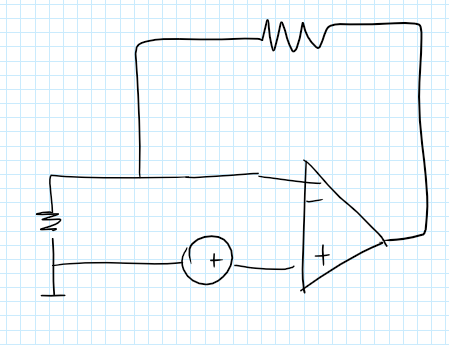
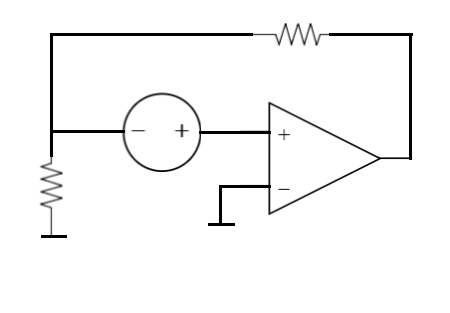
dska

Changed region(s): [[0.0, 0.0, 1.0, 0.9201], [0.0, 0.9489, 1.0, 1.0]]

diff --git a/Ej3/Informe/ej3.tex b/Ej3/Informe/ej3.tex
@@ -3,8 +3,9 @@
 
 \section{Medici\'on corriente de bias y tensi\'on de offset}
 
+\subsection{Importancia de las corrientes de bias y la tensi\'on de offset}
 
-\subsection{Modelo de amplificador operacional con corrientes de bias y tensi\'on de offset}
+
 
 \begin{figure}[htb]	%modelo opamp vio ibias
 	\centering
@@ -16,9 +17,6 @@
 
 
 
-
-
-\subsection{Importancia de las corrientes de bias y la tensi\'on de offset}
 
 
 Las corrientes de bias($I_B^+$ y $I_B^-$) y la tensi\'on de offset ($V_{IO}$) pueden generar efectos que no concuerdan con el modelo ideal de un amplificador operacional. Se presentan a continuaci\'on tres ejemplos:
@@ -107,7 +105,7 @@ Un sistema tiene realimentaci\'on negativa si la fase de la ganancia de lazo est
 \begin{figure}[htbp] %Ejemplo realimentacion negativa y positiva opamp
 	\centering
 	\includegraphics[width=0.5\textwidth]{imagenes/pos_vs_neg_feedback.png}
-	\caption{Ejemplo de realimentaci\'on negativa y positiva en un \textit{op-amp}.}
+	\caption{Ejemplo de realimentaci\'on positiva (izquierda) y negativa (derecha) en un \textit{op-amp}.}
 	\label{fig:ej_3_realimentacion_pos_vs_neg_opamp}
 \end{figure}
 
@@ -158,15 +156,15 @@ Todas las tensiones a determinar son amplificadas para as\'i aumentar la precisi
 	\label{fig:ej_3_medicion_vio_simple}
 \end{figure}
 
-Ya que las se\~nales que se quieren medir tienen una amplitud comparable con el ruido que pueda llegar a inducirse en el circuito, es conveniente reducir la amplificaci\'on para las frecuencias mayores a cero. \todo{redaccion} Esto se logra en el circuito presentado en la consigna (figura \ref{fig:ej_3_medicion_vio_consigna})
+Ya que las se\~nales que se quieren medir tienen una amplitud comparable con el ruido que pueda llegar a inducirse en el circuito, es conveniente reducir la amplificaci\'on para las frecuencias mayores a cero. Esto se logra en el circuito presentado en la consigna (figura \ref{fig:ej_3_medicion_vio_consigna})
 
 \begin{figure}[htbp] %medicion vio ib+ ib- posta
+
 	\centering
 	\includegraphics[scale=1]{imagenes/medicion_bias_configuracion_consigna.png}
 	\caption{Circuito de medici\'on de $V_{IO}$, $I_B^+$ y $I_B^-$. El dispositivo cuyas caracter\'isticas se miden es el DUT, o \textit{device under test}, el cual es un amplificador con $V_{IO}$ y $I_B$ no despreciables. Las dos resistencias en serie con las entradas del DUT pueden tomar dos valores: $1M\Omega$ o $0\Omega$ si es que se las cortocircuita}
 	\label{fig:ej_3_medicion_vio_consigna}
 \end{figure}
-\todo{grafico de consigna con los valores posta}
 \begin{figure}[htbp] %medicion vio ib+ ib- posta con opamp ideal
 	\centering
 	\includegraphics[scale=1]{imagenes/medicion_bias_configuracion_consigna_dos.png}
@@ -175,30 +173,32 @@ Ya que las se\~nales que se quieren medir tienen una amplitud comparable con el 
 \end{figure}
 
 Se utiliza un diagrama de flujo de se\~nal (figura \ref{fig:ej_3_signal_flow_consigna_simplificado}) para obtener la funci\'on de transferencia del sistema. Se tomaron la siguiente consideraciones:
-\begin{itemize}
+
+\begin{itemize} %consideraciones para el signal flow
 	\item $\Delta V_{R1} = I_b^- \cdot 10\Omega \approx 0$
 	\item $I_{R2}\approx I_{R3}$
 	\item La ganancia a lazo abierto de ambos amplificadores es $A_{vol}$\footnote{Es importante distinguir la ganancia a lazo abierto de un \textit{op-amp} $A_{vol}$ de la ganancia a lazo abierto del circuito total $A_{OL}$ }
-	\item La ganancia a lazo cerrado del amplificador que no es el DUT es $A_{CL} = -\frac{A_{vol}}{1+srC(1+A_{vol}} \approx -\frac{A_{vol}}{1+srCA_{vol}}$
+	\item La ganancia a lazo cerrado del amplificador que no es el DUT es \[A_{CL} = -\frac{A_{vol}}{1+srC(1+A_{vol})} \approx -\frac{A_{vol}}{1+srCA_{vol}}\] (obtenida en el ejercicio de integrador y derivador).
 \end{itemize}
 
 
 \begin{figure}[htpb]%signal flow consigna
 	\centering
-	\begin{subfigure}[t]{0.49\textwidth}
+	\begin{subfigure}[t]{0.45\textwidth}
 		\centering
 		\includegraphics[width=\textwidth]{imagenes/signal_flow_consigna.png}
-		\caption{Diagrama de flujo de se\~nal para el circuito de la consigna usando el modelo de la figura para el DUT}
+		\caption{Diagrama de flujo de se\~nal para el circuito de la consigna usando el modelo de la figura \ref{fig:ej_3_modelo_opamp_vio_ibias} para el DUT. Se desprecian los efectos de $I_B$ y $V_{IO}$ en el otro \textit{op-amp}.}
 		\label{fig:ej_3_signal_flow_consigna_no_simplificado}
 	\end{subfigure}%
 	\hfill%%
-	\begin{subfigure}[t]{0.49\textwidth}
+	\begin{subfigure}[t]{0.45\textwidth}
 		\centering
 		\includegraphics[width=\textwidth]{imagenes/signal_flow_consigna_simplificado.png}
 		\caption{Simplificaci\'on del diagrama de flujo de se\~nal. La estructura coincide con la de un circuito con realimentacion (ver figura \ref{fig:ej_3_realimentacion}). }
 		\label{fig:ej_3_signal_flow_consigna_simplificado}
 	\end{subfigure}
-	\label{fig:ej_3_signal_flow_consigna}	
+	\label{fig:ej_3_signal_flow_consigna}
+	\caption{}	
 \end{figure}
 
 
@@ -218,7 +218,7 @@ Cabe destacar $V_{in}$ es una forma abstracta de agrupar los efectos no ideales 
 Con estos valores y teniendo en cuenta la ecuaci\'on \ref{eq:ej_3_ACL} se obtiene la funci\'on transferencia del sistema:
 
 \begin{equation}
-	H(s)=\frac{-\frac{A_{vol}^2}{1+sRC\cdot A_{vol}}}{1+\frac{A_{vol}}{1+sRC\cdot A_{vol}}\beta}
+	H(s)=\frac{-\frac{A_{vol}^2}{1+sRC\cdot A_{vol}}}{1+\frac{A_{vol}^2}{1+sRC\cdot A_{vol}}\beta}
 	=-\frac{1}{\frac{1}{A_{vol}^2}+\beta}\cdot \frac{1}{\frac{s}{\frac{1+A_{vol}^2\beta}{RCA_{vol}}} +1}
 	\label{eg:ej_3_transferencia_consigna_sin_simplificar}
 \end{equation}
@@ -227,10 +227,18 @@ Con estos valores y teniendo en cuenta la ecuaci\'on \ref{eq:ej_3_ACL} se obtien
 Si se considera que $A_{vol}^2\beta \gg 1 \Rightarrow \beta \gg \frac{1}{A_{vol}^2}$ se puede simplificar la expresi\'on:
 
 
+
+	\[H(s) = -\frac{1}{\beta}\cdot \frac{1}{\frac{s}{\frac{A_{vol}\beta}{RC}}+1}\]
+
+
+Utilizando el modelo de $A_{vol}$ de polo dominante (explicado en detalle en el ejercicio 1), se obtiene:
+\[H(s) = -\frac{1}{\beta} \cdot \frac{1}{\frac{s}{\frac{\frac{A_o}{\frac{1}{\omega _p}+1}\beta}{RC}}+1} \]
+
 \begin{equation}
-	H(s) = -\frac{1}{\beta}\cdot \frac{1}{\frac{s}{\frac{A_{vol}\beta}{RC}}+1}
+	H(s) = -\frac{1}{\beta} \cdot \frac{1}{s^2\frac{RC}{w_pA_o\beta}+s\frac{RC}{A_o\beta}+1}
 	\label{eq:ej_3_transferencia_consigna_simplificada}
 \end{equation}
+
 
 
 Sabiendo que $lim_{T\rightarrow \infty}A_{CL} = A_{CL\,ideal}$:
@@ -245,7 +253,7 @@ Sabiendo que $lim_{T\rightarrow \infty}A_{CL} = A_{CL\,ideal}$:
 Cuando $f=0$, evaluando en la funci\'on transferencia (ecuaci\'on \ref{eg:ej_3_transferencia_consigna_sin_simplificar}) se obtiene que la ganancia del circuito es $-\frac{1}{\beta}=-561$, por lo que $V_{in}=-\frac{V_{out}}{561}$
 
 
-\begin{description}
+\begin{description}%mediciones tomadas
 	\item[Medici\'on de $V_{IO}$:] Cortocircuitando las resistencias R5 y R6 se obtiene que $V_{in} = V_{IO}$, valor que se puede obtener midiendo $V_{OUT}$:
 	
 	\[V_{IO} = -\frac{V_{OUT}}{561}\]
@@ -256,7 +264,7 @@ Cuando $f=0$, evaluando en la funci\'on transferencia (ecuaci\'on \ref{eg:ej_3_t
 	Una vez obtenidas $I_B^\pm$, se calcula $I_B$ definida como $\frac{I_B^++I_B^-}{2}$
 \end{description}
 
-\begin{table}[htbp]
+\begin{table}[htbp]%resultados
 \centering
 \begin{tabular}{ccccc}
                        & \multicolumn{2}{c}{TL081} & \multicolumn{2}{c}{LF356} \\
@@ -279,6 +287,13 @@ Las mediciones que son acordes a lo especificado en la hoja de datos son $V_{IO}
 
 
 \subsubsection{Funcionamiento en AC}
+La transferencia cumple con la forma 
+\[\frac{cte}{\frac{s^2}{\omega_0^2}+s\frac{2\xi}{\omega_0}+1}\]
+con polos en el semiplano izquierdo del plano complejo (ver secci\'on \ref{ssec:ej_3_estabilidad_consigna}). Esto indica que el circuito es un pasabajos de orden 2 con frecuencia de corte $f_0=\frac{1}{2\pi}\cdot \sqrt{\frac{\omega_pA_o\beta}{RC}}=$. Para el TL081, $f_0=XXX$ y para el LF356 $f_0=XXX$. Se encontr\'o experimentalmente que el mayor ruido era de 50Hz. Si para atenuarlo se decidiera poner la frecuencia de corte a menos de 50Hz, se necesitar\'ia como m\'inimo un capacitor de $C=\frac{1}{4\pi^2}\cdot \sqrt{\frac{\omega_pA_o\beta}{R(50Hz)^2}}$. Para el TL081, $C=XXXXX$ y para el LF356 $C=XXXX$.
+
+
+
+\todo{REEMPLAZAR LOS VALORES }
 
 
 
@@ -295,46 +310,70 @@ Las mediciones que son acordes a lo especificado en la hoja de datos son $V_{IO}
 
 
 
+\subsection{Estabilidad en diferentes configuraciones} 
+
+Para determinar la estabilidad del circuito se analizan la posici\'on de los polos de la funci\'on transferencia:
+
+\subsubsection{Configuraci\'on consigna} \label{ssec:ej_3_estabilidad_consigna}
+De la ecuaci\'on \ref{eq:ej_3_transferencia_consigna_simplificada} se obtienen los polos.
+\todo[inline]{SACAR LOS POLOS Y COMPROBAR QUE SON DEL PLANO IZQUIERDO}
+
+\subsubsection{No DUT invertido}
+
+Nuevamente se obtiene la transferencia del circuito teniendo en cuenta que el diagrama de flujo de se\~nal es el de un sistema realimentado y usando la ecuaci\'on \ref{eq:ej_3_ACL}:
 
 
 
 
 
+\begin{figure}[htpb]%signal flow invirtiendo noDUT
+	\centering
+	\begin{subfigure}[t]{0.49\textwidth}
+		\centering
+		\includegraphics[width=\textwidth]{imagenes/signal_flow_inv_noDUT.png}
+		\caption{}
+		\label{fig:ej_3_signal_flow_inv_noDUT_no_simplificado}
+	\end{subfigure}%
+	\hfill%%
+	\begin{subfigure}[t]{0.49\textwidth}
+		\centering
+		\includegraphics[width=\textwidth]{imagenes/signal_flow_inv_noDUT_simplificado.png}
+		\caption{}
+		\label{fig:ej_3_signal_flow_inv_noDUT_simplificado}
+	\end{subfigure}
+	\caption{Diagrama de flujo de se\~nal el circuito de la consigna invirtiendo las entradas en el amplificador no DUT. La obtenci\'on de la transferencia del amplificador no DUT es an\'aloga a la de la configuraci\'on no inversora usado en el circuito de la consigna}
+	\label{fig:ej_3_signal_flow_inv_noDUT}	
+\end{figure}
 
 
-\subsection{Estabilidad en diferentes configuraciones}
 
 
-
-
-La estabilidad del sistema se analiza viendo la posici\'on de los polos en el plano complejo
-
-
-En la figura \ref{fig:ej_3_realimentacion_pos_vs_neg_opamp} se muestran ejemplos de realimentaci\'on negativa y positiva en un amplificador operacional.
-
-
-
-\subsubsection{Consigna}
-\subsubsection{Uno invertido}
 \subsubsection{Ambos invertidos}
 
 
 
+\begin{figure}[htpb]%signal flow invirtiendo ambos
+	\centering
+	\begin{subfigure}[t]{0.49\textwidth}
+		\centering
+		\includegraphics[width=\textwidth]{imagenes/signal_flow_inv_ambos.png}
+		\caption{}
+		\label{fig:ej_3_signal_flow_inv_ambos_no_simplificado}
+	\end{subfigure}%
+	\hfill%%
+	\begin{subfigure}[t]{0.49\textwidth}
+		\centering
+		\includegraphics[width=\textwidth]{imagenes/signal_flow_inv_ambos_simplificado.png}
+		\caption{}
+		\label{fig:ej_3_signal_flow_inv_ambos_simplificado}
+	\end{subfigure}
+	\label{fig:ej_3_signal_flow_inv_ambos}	
+	\caption{Diagrama de flujo de se\~nal el circuito de la consigna invirtiendo las entradas en ambos amplificadores.}
+\end{figure}
 
 
 
 
 
-
-
-
-
-\subsection{Medici\'on de $V_{IO}$ y $I_B^\pm$}
-
-
-\begin{itemize}
-	\item estabilidad
-	\item inversion de los opamps
-\end{itemize}
 
 \end{document}
